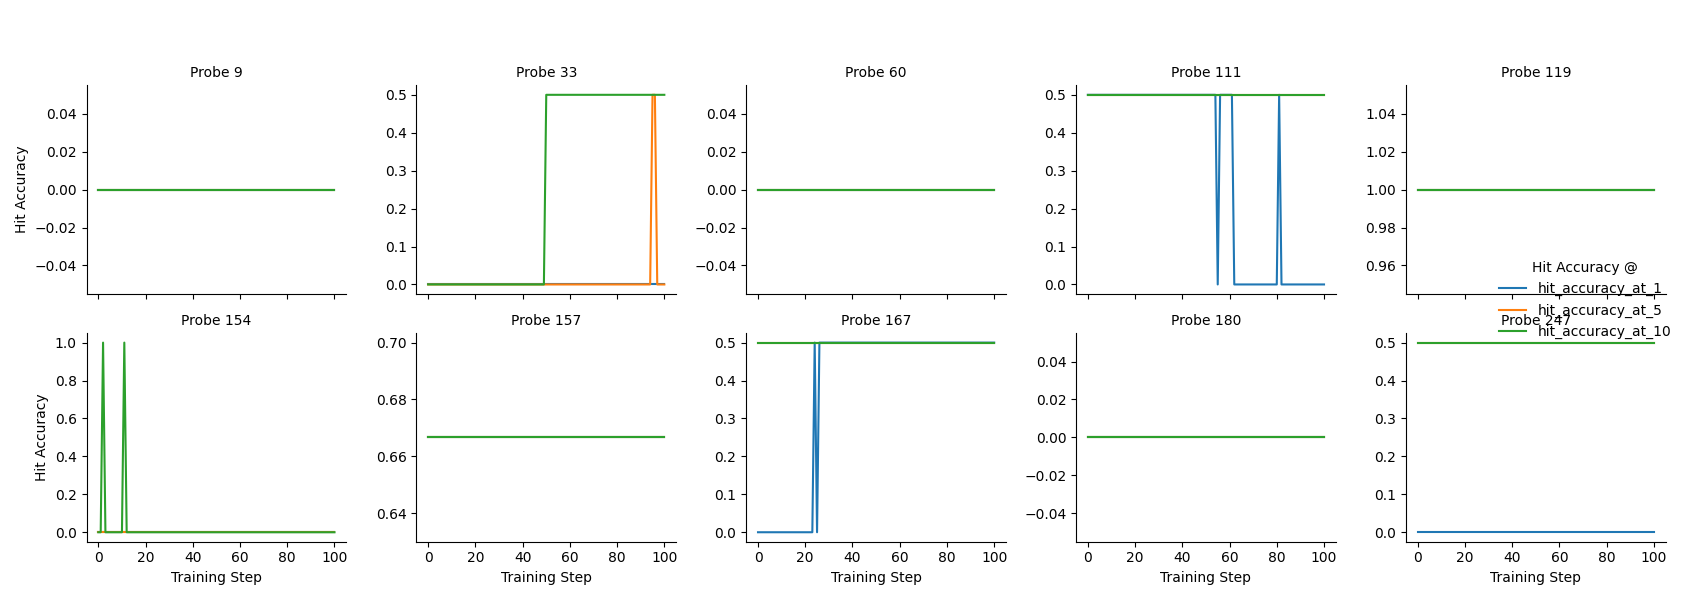
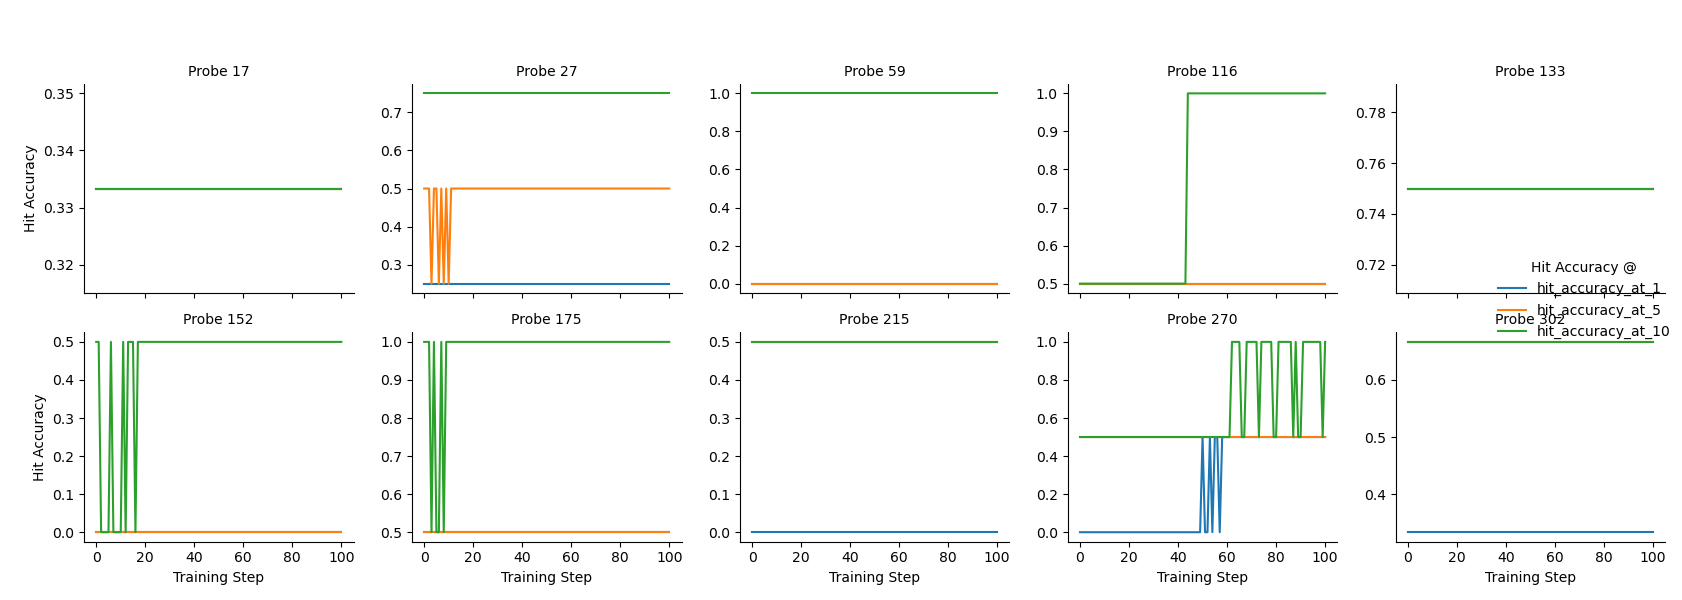
added more plots

diff --git a/utils/llm_plotting.py b/utils/llm_plotting.py
@@ -61,7 +61,7 @@ def generate_new_plots(output_dir: str, logger=None):
 
     # --- PLOT 2: Hit Accuracy by Section ---
     log_info("Generating Plot 2: Hit Accuracy by Section...")
-    plot_2_cols = ['hit_accuracy_at_10', 'perplexity', 'log_probs']
+    plot_2_cols = ['perplexity', 'log_prob']
     if all(c in probe_df.columns for c in plot_2_cols) and 'section' in probe_df.columns:
         plt.figure(figsize=(14, 8))
         
@@ -81,8 +81,30 @@ def generate_new_plots(output_dir: str, logger=None):
         plt.savefig(os.path.join(output_dir, "plot_new_2_metrics_by_section.png"))
         plt.close()
 
-    # --- PLOT 3: Disaggregated Hit Accuracy for 10 Random Probes ---
-    log_info("Generating Plot 3: Disaggregated Hit Accuracy (10 Random Probes)...")
+    # --- PLOT 3: Hit Accuracy by Section ---
+    log_info("Generating Plot 3: Hit Accuracy by Section...")
+    plot_3_cols = ['hit_accuracy_at_1']
+    if all(c in probe_df.columns for c in plot_3_cols) and 'section' in probe_df.columns:
+        plt.figure(figsize=(14, 8))
+        
+        avg_section_hits = probe_df.groupby(['step', 'section'])[plot_3_cols].mean().reset_index()
+        melted_df = avg_section_hits.melt(id_vars=['step', 'section'], value_vars=plot_3_cols, var_name='metric', value_name='value')
+        
+        all_sections = sorted(probe_df['section'].unique())
+        palette = sns.color_palette("husl", len(all_sections))
+
+        sns.lineplot(data=melted_df, x='step', y='value', hue='section', style='metric', hue_order=all_sections, palette=palette)
+        
+        plt.title('Plot 3: Hit Accuracy by Section')
+        plt.xlabel('Training Step')
+        plt.ylabel('Value')
+        plt.grid(True, which="both", ls="--")
+        plt.legend(title='Section & Metric')
+        plt.savefig(os.path.join(output_dir, "plot_new_3_hits_by_section.png"))
+        plt.close()
+        
+    # --- PLOT 4: Disaggregated Hit Accuracy for 10 Random Probes ---
+    log_info("Generating Plot 4: Disaggregated Hit Accuracy (10 Random Probes)...")
     if hit_cols:
         unique_probes = probe_df['probe_index'].unique()
         if len(unique_probes) > 0:
@@ -109,12 +131,12 @@ def generate_new_plots(output_dir: str, logger=None):
                  g.set_titles("Probe {col_name}")
 
             plt.tight_layout(rect=[0, 0, 1, 0.97])
-            plt.savefig(os.path.join(output_dir, "plot_new_3_disaggregated_hits.png"))
+            plt.savefig(os.path.join(output_dir, "plot_new_4_disaggregated_hits.png"))
             plt.close()
 
-    # --- PLOT 4: Disaggregated Normalized Perplexity vs. Log Probs for 10 Random Probes ---
-    log_info("Generating Plot 4: Disaggregated Normalized Perplexity vs. Log Probs...")
-    plot_4_cols = ['perplexity', 'log_probs']
+    # --- PLOT 5: Disaggregated Normalized Perplexity vs. Log Probs for 10 Random Probes ---
+    log_info("Generating Plot 5: Disaggregated Normalized Perplexity vs. Log Probs...")
+    plot_4_cols = ['perplexity', 'log_prob']
     if 'random_probes' in locals() and all(c in probe_df.columns for c in plot_4_cols):
         sample_df = probe_df[probe_df['probe_index'].isin(random_probes)]
         
@@ -148,5 +170,5 @@ def generate_new_plots(output_dir: str, logger=None):
                 g.set_titles("Probe {col_name}")
 
             plt.tight_layout(rect=[0, 0, 1, 0.97])
-            plt.savefig(os.path.join(output_dir, "plot_new_4_disaggregated_normalized_ppl_logprobs.png"))
+            plt.savefig(os.path.join(output_dir, "plot_new_5_disaggregated_normalized_ppl_logprobs.png"))
             plt.close()

diff --git a/scripts/FT/regenerate_plots.py b/scripts/FT/regenerate_plots.py
@@ -6,7 +6,7 @@ import logging
 # Add project root to path
 sys.path.append(os.path.abspath(os.path.join(os.path.dirname(__file__), '..', '..')))
 
-import utils.llm_plotting_old as llm_plotting_old
+import utils.llm_plotting as llm_plotting
 
 def main():
     """
@@ -35,7 +35,7 @@ def main():
 
     # --- Generate Plots ---
     log.info(f"Generating plots from data in '{args.results_dir}'")
-    llm_plotting_old.generate_plots_from_files(args.results_dir, logger=log)
+    llm_plotting.generate_new_plots(args.results_dir, logger=log)
     log.info(f"Finished generating all plots. They are saved in '{args.results_dir}'")
 
 if __name__ == "__main__":
